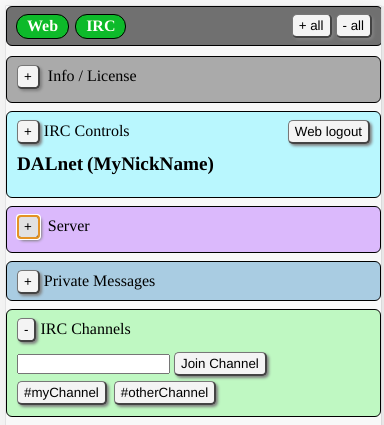
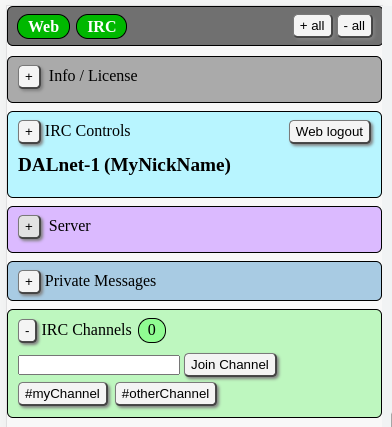
Update /docs help and new screen captures

Changed region(s): [[0.0, 0.0, 1.0, 1.0], [0.1562, 0.3671, 0.5938, 0.4282], [0.125, 0.3976, 0.1562, 0.4282]]

diff --git a/docs/index.html b/docs/index.html
@@ -117,7 +117,7 @@
             </p>
           </div>
           <div class="image-photo">
-            <img src=images/irc-connected.png width="388" height="650" alt="IRC connected image">
+            <img src=images/irc-connected.png width="386" height="646" alt="IRC connected image">
           </div>
         </div>
 
@@ -134,6 +134,7 @@
               In this case, server window was closed with the [-] Server button.
             </p>
             <p>
+              The green window at the bottom is where you can join IRC channels.
               If you defined some favorite IRC channel names in the configuration
               file, buttons will be added to allow easy navigation
               to join channels while using a smartphone. In this example
@@ -141,7 +142,7 @@
             </p>
           </div>
           <div class="image-photo">
-            <img src=images/collapsed.png width="384" height="425"alt="Main view collapsed image">
+            <img src=images/collapsed.png width="392" height="427"alt="Main view collapsed image">
           </div>
         </div>
 
@@ -150,6 +151,8 @@
           <div class="image-text">
             <p>
               The channel name and topic are displayed at the top of the channel window.
+              The green icon with the digit (2) indicates there are 2 people present in the channel.
+              The white icon with the digit (1) indicates 1 unread message has been received in the channel.
               Below the title is a list of nicknames for users present in the channel,
               followed by a text area where messages are displayed.
             </p><p>
@@ -169,7 +172,7 @@
             </p>
           </div>
           <div class="image-photo">
-            <img src=images/channel-vertical.png width="387" height="688"alt="Channel Vertical image">
+            <img src=images/channel-vertical.png width="386" height="686"alt="Channel Vertical image">
           </div>
         </div>
 
@@ -188,9 +191,13 @@
               If the screen width is below a minimum value, the nickname list is also hidden.
               The hidden items can be toggled to visible by clicking the [Zoom] / [No Zoom] button.
             </p>
+            <p>
+              In this case there are no unread messages so 
+              the white unread message icon has been removed from the channel window.
+            </p>
           </div>
           <div class="image-photo">
-            <img src=images/channel-zoom.png width="385" height="691"alt="Channel Zoom mode image">
+            <img src=images/channel-zoom.png width="385" height="689"alt="Channel Zoom mode image">
           </div>
         </div>
 
@@ -209,7 +216,7 @@
             </p>
           </div>
           <div class="image-photo">
-            <img src=images/channel-horizontal.png width="725" height="340"alt="Channel Horizontal image">
+            <img src=images/channel-horizontal.png width="702" height="336"alt="Channel Horizontal image">
           </div>
         </div>
 
@@ -251,6 +258,9 @@
               A separate window is used for each separate nickname.
             </p>
             <p>
+              The white icon with the number (1) indicates 1 unread message has been received.
+            </p>
+            <p>
               The checkbox at the bottom enables an audible sound beep when messages arrive.
             </p>
             <p>
@@ -258,7 +268,7 @@
             </p>
           </div>
           <div class="image-photo">
-            <img src=images/private-message.png width="389" height="597"alt="Private Message image">
+            <img src=images/private-message.png width="386" height="592"alt="Private Message image">
           </div>
         </div>
 
@@ -346,6 +356,25 @@
           </div>
           <div class="image-photo">
             <img src=images/icons-7.png width="389" height="53"alt="Icon-1">
+          </div>
+        </div>
+
+        <div class="home-detail">
+          <div class="image-text">
+            <p>
+              When all windows are collapsed using the [-all] button, 
+              various counter icons will show status as follows.
+            </p>
+            <ul>
+              <li>Private message, (1) window exists (blue) with (1) unread message (white)</li>
+              <li>The (P) icon in the top bar indicates the unread PM count is greater than zero.</li>
+              <li>IRC Channels, (1) channel has been joined (green) and there is a total of (5) unread message from all IRC channels</li>
+              <li>The (C) icon in the top bar indicates the channel unread count is greater than zero.</li>
+              <li>In #myChannel, (2) people have joined the channel (light green) and there are (5) unread messages (white).</li>
+            </ul>
+          </div>
+          <div class="image-photo">
+            <img src=images/unread-counters.png width="388" height="416"alt="Icon-1">
           </div>
         </div>
 
